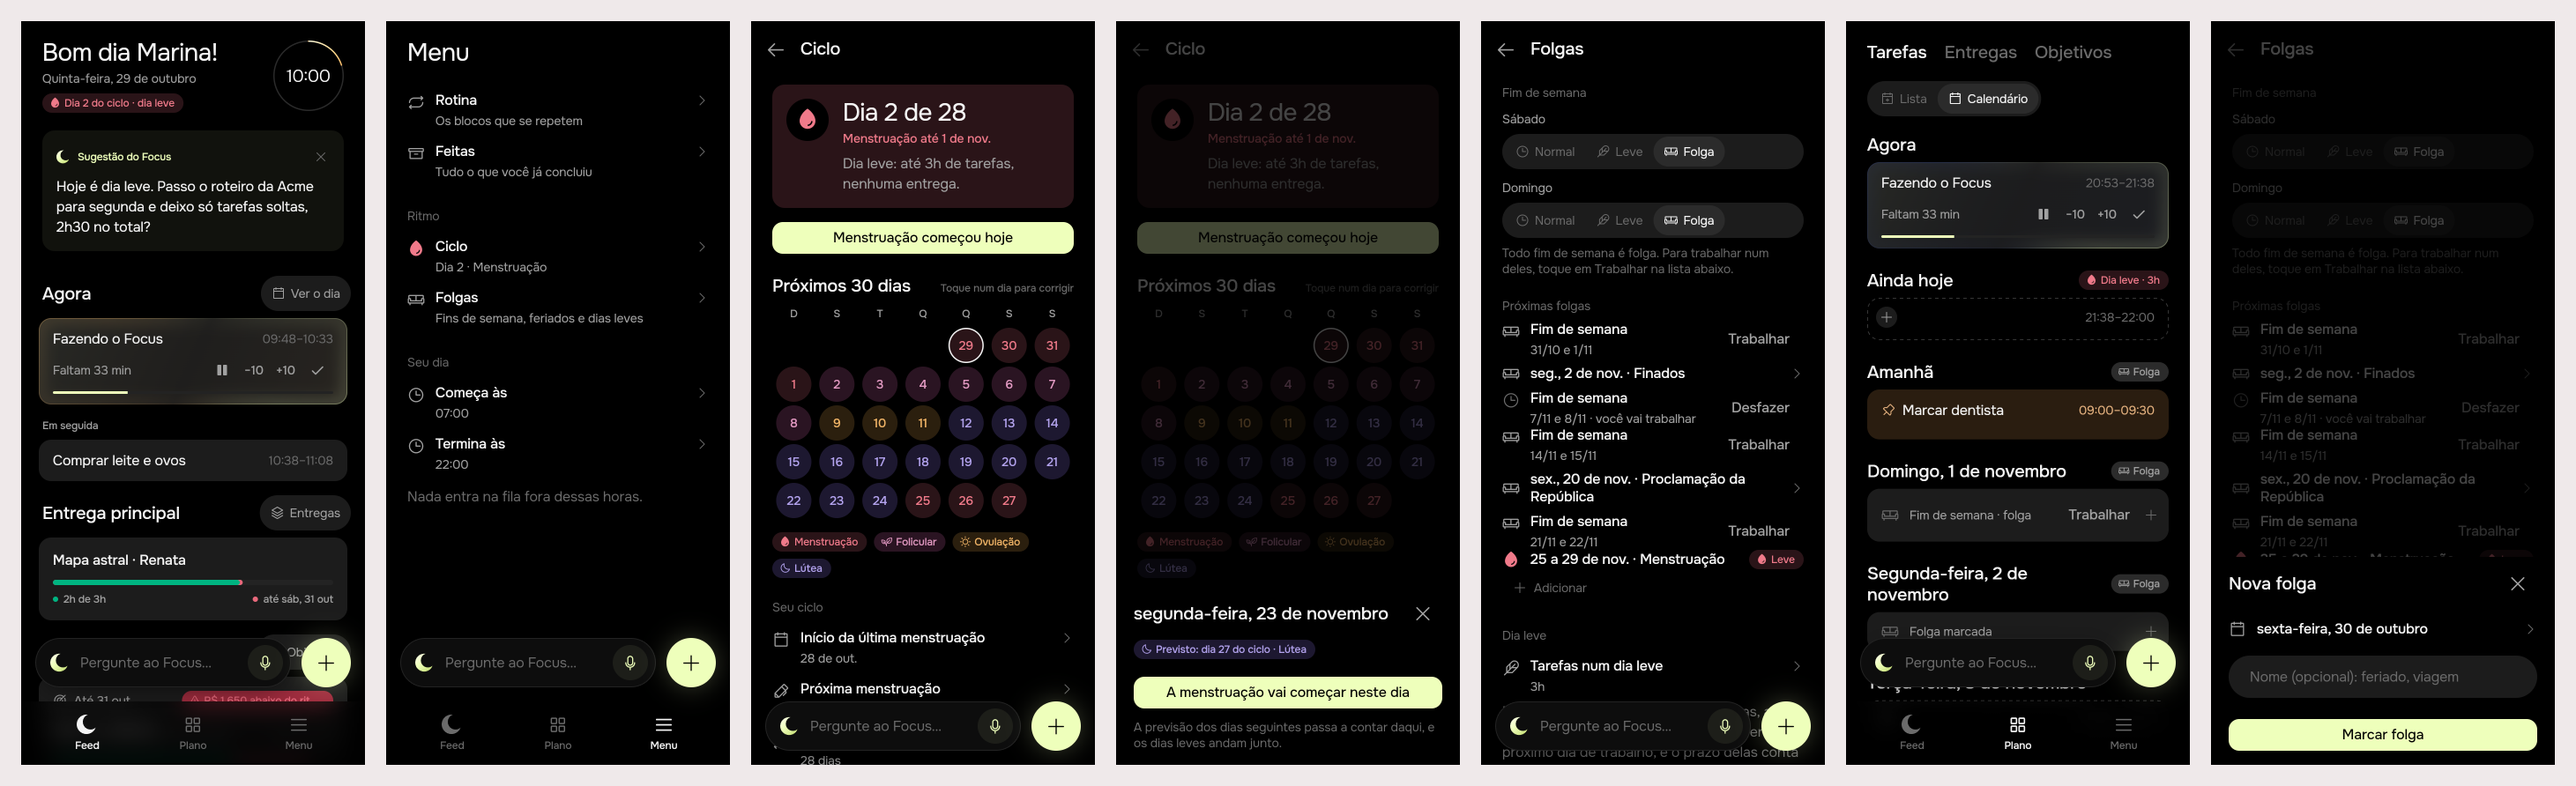
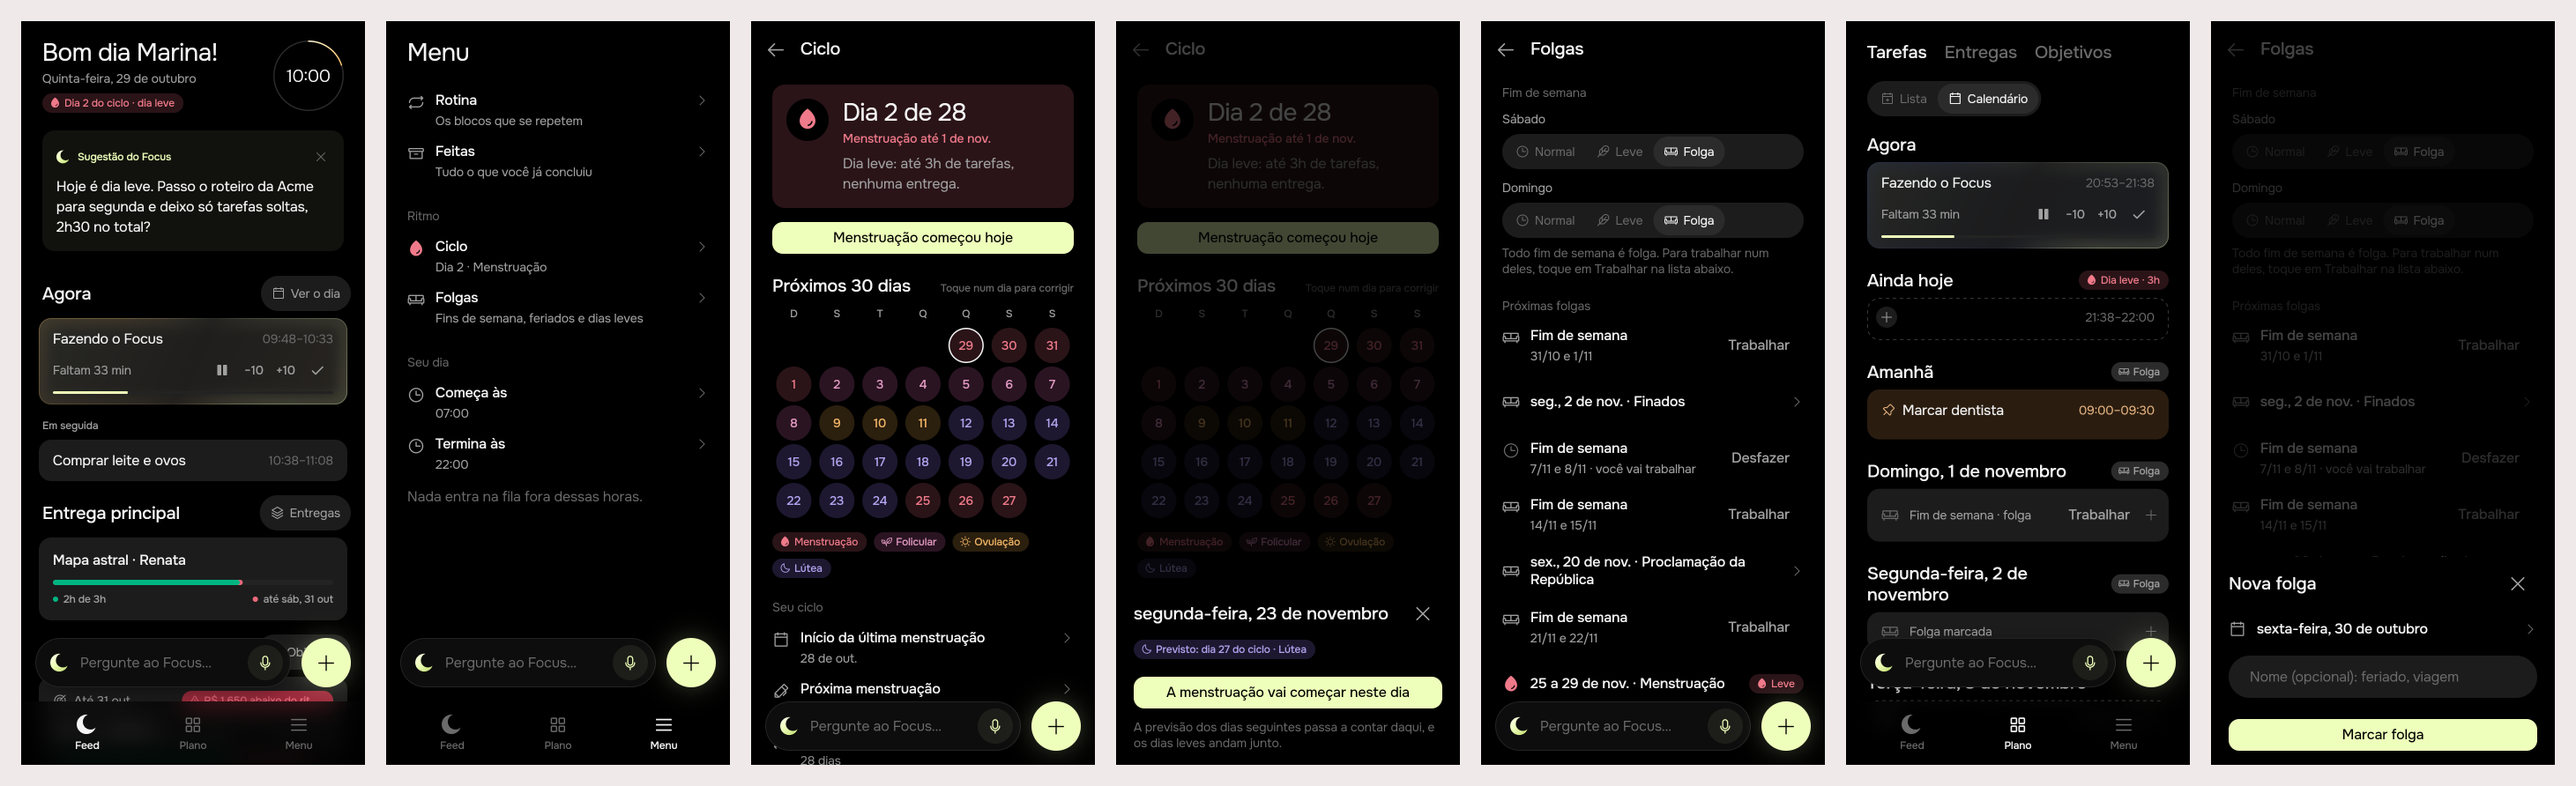
create(#73): fix · Add menstrual cycle and time off

diff --git a/app/packages/cycle/lib/src/view/days_off_page.dart b/app/packages/cycle/lib/src/view/days_off_page.dart
@@ -31,6 +31,10 @@ class DaysOffPage extends StatelessWidget {
   /// Writes a new date off: [showDayOffSheet] unless told otherwise.
   final VoidCallback? onAdd;
 
+  /// The height of a row of Próximas folgas: a two-line one with its
+  /// padding, so one-line rows and buttons don't pack tighter.
+  static const _rowHeight = 56.0;
+
   @override
   Widget build(BuildContext context) {
     final l10n = context.l10n;
@@ -254,7 +258,17 @@ class DaysOffPage extends StatelessWidget {
     }
 
     rows.sort((a, b) => a.$1.compareTo(b.$1));
-    return [for (final row in rows) row.$2];
+    // Every row as tall as the next, whatever it ends in (a chevron, a
+    // button, a tag), with air between them.
+    return [
+      for (final (i, row) in rows.indexed) ...[
+        if (i > 0) const SizedBox(height: AppSpacing.s2),
+        ConstrainedBox(
+          constraints: const BoxConstraints(minHeight: _rowHeight),
+          child: Align(alignment: Alignment.centerLeft, child: row.$2),
+        ),
+      ],
+    ];
   }
 }
 

diff --git a/product/delivery/2026-10-29-cycle/README.md b/product/delivery/2026-10-29-cycle/README.md
@@ -29,6 +29,10 @@ The reply to the first design, on the issue:
 
 The reply to round 2, on the issue: "Approve".
 
+The reply to the build, on the issue:
+
+> Add spacing on próximas folgas
+
 What round 2 changed for it:
 
 - **The prediction is the person's to change.** Every day of Ciclo's
@@ -334,6 +338,17 @@ No test was flaky in these runs.
   down (scene 7).
 - The rhythm's routes do not take `CatchUpInterceptor`: none reads the
   day.
+
+### After the build's review: spacing on Próximas folgas
+
+The rows of Próximas folgas were packed unevenly: a row with a chevron
+had the tappable row's padding, one with **Trabalhar**, **Desfazer** or
+the period's tag had none, so the weekends sat on top of each other.
+Now every row is at least 56 px tall (a two-line row with its padding),
+centred in it, with 8 px between rows (`DaysOffPage._dates`). The
+strips above are re-shot with it (scene 5; scene 7 is the same page
+under the sheet). `.tool/check` passed: `app-analyze`, the cycle tests
+under Focus and Lunna.
 
 ### Decided in the build, unattended
 
